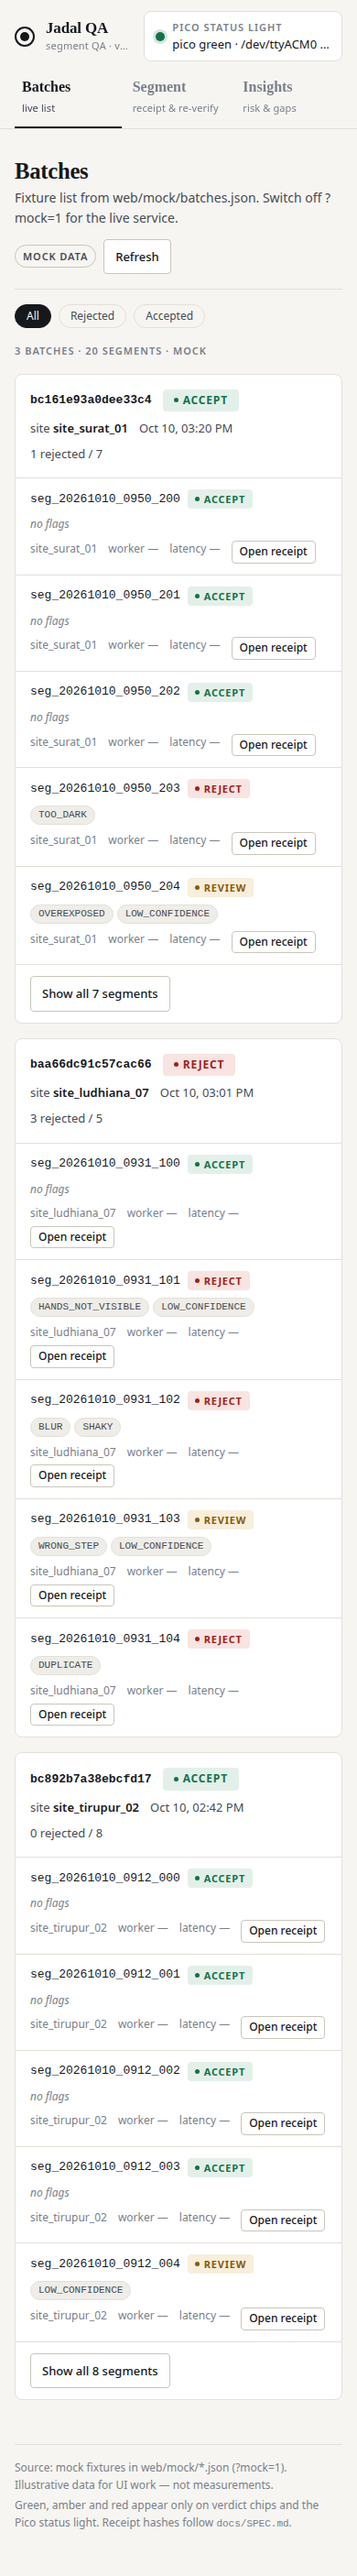
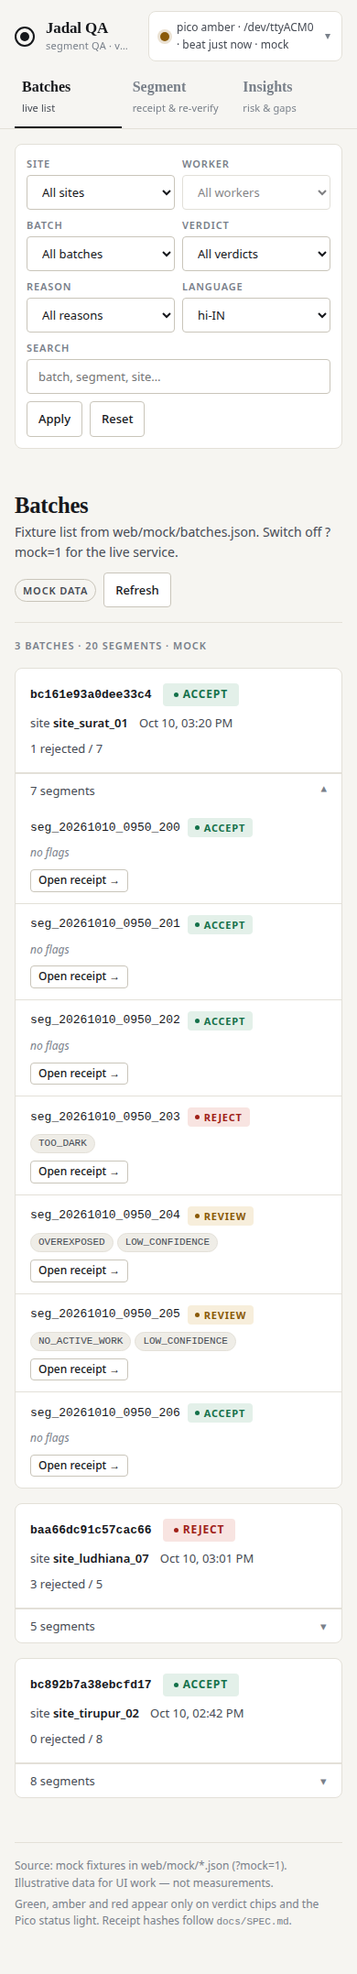
dashboard2: report, version_match line, timeline no-detection note, extra shots

Changed region(s): [[0.0308, 0.0, 0.9231, 0.9949], [0.7692, 0.1865, 0.8615, 0.2176], [0.8615, 0.0622, 0.9231, 0.0933]]

diff --git a/web/app.js b/web/app.js
@@ -724,6 +724,9 @@ function renderReverify(out) {
       (((res.diff || []).length)
         ? '<ul class="rv-diff">' + res.diff.map(function (d) { return '<li>' + esc(d) + '</li>'; }).join('') + '</ul>'
         : '<p class="rv-detail">no differing fields</p>') +
+      (res.version_match === undefined || res.version_match === null ? '' :
+        '<p class="rv-detail">code versions ' + (res.version_match ? 'match' :
+          'differ' + (((res.version_diff || []).length) ? ' (' + res.version_diff.map(esc).join(', ') + ')' : '')) + '</p>') +
     '</div>');
   out.appendChild(banner);
 }
@@ -737,6 +740,14 @@ function stepTimelineCard(r) {
   var conf = Number(r.step_conf);
   var thr = Number(r.threshold);
   var confTxt = isFinite(conf) ? conf.toFixed(2) : '—';
+
+  // top candidate (for the "no step detected" note when choice is null)
+  var topName = null, topP = -1;
+  names.forEach(function (name) {
+    var p = Number(probs[name]);
+    if (isFinite(p) && p > topP) { topP = p; topName = name; }
+  });
+  topP = topP >= 0 ? topP.toFixed(2) : '—';
 
   var track = el('<ol class="timeline" aria-label="SOP step timeline"></ol>');
   names.forEach(function (name) {
@@ -762,6 +773,11 @@ function stepTimelineCard(r) {
       '<div class="card-head"><h2 class="card-title">Step timeline</h2>' +
       '<span class="card-note">SOP steps · detected step marked, shaded by confidence</span></div>' +
       '<div class="card-body"><div class="tl-scroll"></div>' +
+      (choice
+        ? ''
+        : '<p class="state-note" style="margin-bottom:var(--s3);">No step detected — top candidate ' +
+          esc(topName) + ' (' + esc(topP) + '), confidence ' + esc(confTxt +
+          (isFinite(thr) ? ', threshold ' + thr : '')) + ').</p>') +
       '<p class="state-note">Hands p(yes) ' +
         esc(r.raw.decisions && r.raw.decisions.hands_ok && r.raw.decisions.hands_ok.p_yes !== undefined ? num(r.raw.decisions.hands_ok.p_yes) : '—') +
         ' · active-work p(yes) ' +

diff --git a/web/api.js b/web/api.js
@@ -184,6 +184,8 @@ function normReverify(raw) {
     expected: first(raw, ['expected']),
     actual: first(raw, ['actual']),
     diff: asArray(first(raw, ['diff', 'diffs', 'fields'])),
+    version_match: first(raw, ['version_match', 'versionMatch']),
+    version_diff: asArray(first(raw, ['version_diff', 'versionDiff'])),
   };
 }
 

diff --git a/docs/reports/dashboard2.md b/docs/reports/dashboard2.md
@@ -1,0 +1,130 @@
+# dashboard2 — module report (issue #18)
+
+Judge-facing UX rewrite on top of the merged dashboard (`web/` on
+`feat/dashboard2`, merged with `origin/main`). Vanilla JS, no build step,
+no CDN, no remote assets. Light/dark via `prefers-color-scheme`. Live
+against the service, or `?mock=1` against `web/mock/*.json`.
+
+## What exists
+
+- **`web/api.js` (new) — the single adapter.** ALL transport and ALL field
+  access live here: `createClient` (`batches`, `batchDetail`, `receipt`,
+  `reverify`, `risk`, `gaps`, `pico`, `voiceUrl`, `wsUrl`), normalizers
+  (`normBatchList`, `normReceipt`, `normRisk`, `normGaps`, `normPico`,
+  `normReverify` incl. `version_match`/`version_diff`), pure filter logic
+  (`filterOptions`, `applyFilters`, `matchQuery`), hash router
+  (`parseHash`/`buildHash`), `findReceiptForSegment`, `shortHash`.
+  `app.js` reaches every operation through `client.*` / `A.*` (asserted by
+  tests). Switching to real shapes = one-file change. Also loads under
+  node so tests exercise it directly.
+- **Global filter bar** — real `<select>`s (site, worker, batch, verdict,
+  reason, language) + search box. State lives in the URL hash
+  (`#/batches?site=…&verdict=reject&q=…`); bogus values are dropped by the
+  parser. Search is debounced; selects apply instantly; Reset clears.
+  Worker select is disabled with a tooltip until the API exposes workers.
+- **Batches view** — compact cards with native `<details>` expandable rows
+  (newest auto-expanded; all expand when filters are on) showing
+  per-segment verdict + reason chips and an "Open receipt →" button.
+  Meta line counts batches/segments/active filters.
+- **Segment view** — verdict + reason chips; Segment/Re-verify grid;
+  **collapsible receipt tree** (`<details>` per object, truncated hashes
+  with full value on hover, per-hash copy buttons) instead of a JSON dump;
+  **Re-verify** with unmistakable ✓ MATCH / ✕ MISMATCH banner (expected /
+  actual + diff paths + code-version line when the payload carries it);
+  **step timeline** (SOP steps left→right, detected step marked and tinted
+  by segment verdict, dot filled when conf ≥ threshold; explicit "No step
+  detected — top candidate …" note when `choice` is null); voice card with
+  **language `<select>`** + ▶ Play message; Hashes card; compact signals
+  grid; open-by-receipt-id box.
+- **Insights** — risk/coverage SVG (bound/target lines + operating point
+  when the payload carries them, honest "not certified" otherwise),
+  **head/model `<select>`** (populates from opened receipts; selects an
+  aggregate curve with a labelled note until per-head curves exist),
+  SOP-gap bars.
+- **System drawer** — `<details>` in the header, collapsed by default:
+  Pico LED + heartbeat age + port + ticks, then model versions + pipeline
+  version + python/torch/opencv once a segment is open.
+- **Polish** — no walls of text anywhere; verdict green/amber/red only on
+  verdict chips, the detected timeline step tint, and the Pico LED
+  (timeline dots stay neutral ink); `:focus-visible` states; native
+  keyboard-accessible `<details>`/`<select>`/tabs with arrow-key tab
+  navigation; loading skeletons + empty + error-with-retry states;
+  CSS-only transitions; 390 px clean (filter bar wraps 2-up).
+
+## Built against
+
+`docs/API.md` from `origin/feat/integration` (read in full, 204 lines —
+it appeared mid-task; checked twice before that: no API doc, built
+against `web/mock/*.json` + SPEC). The adapter already matches it:
+`{batches: BatchSummary[]}` nine keys, detail `receipt_ids` ordered by
+receipt_id (resolve via `verdict.segment_id`), receipt shape, reverify
+`{match, expected, actual, diff}` + `version_match`/`version_diff`
+(surfaced, added after reading the doc), bare risk/gap lists, pico
+offline `{connected:false, reason}`, WS `hello`/`pong`/`batch`.
+Its "Missing" §1–4 (per-verdict enrichment, risk metadata,
+`blurred_sha256`) is exactly what the UI renders "—" for.
+
+## How to run
+
+```sh
+cd web && python3 -m http.server 8123
+# mock: http://127.0.0.1:8123/?mock=1
+# live:  http://127.0.0.1:8123/   (expects jadal/service.py)
+```
+
+## Tests — actually run
+
+```sh
+PYTHONNOUSERSITE=1 /home/parshu/envs/jadal/bin/python web/test_dashboard.py
+# Ran 14 tests in 0.078s — OK
+node --check web/api.js && node --check web/app.js   # pass
+node docs/screens/take_shots.cjs
+```
+
+Real output tail:
+
+```
+batches-1280.png:   1280x900        overflow=0px consoleErrors=0 failedReqs=0
+segment-1280.png:   1280x900        overflow=0px consoleErrors=0 failedReqs=0
+reverify-1280.png:  ✓ MATCH — receipt reproduces (expected == actual)
+reverify-mismatch-1280.png: ✕ MISMATCH + diff paths (decisions.step.answer_conf, _mock.forced_mismatch)
+insights-1280.png:  1280x900        overflow=0px consoleErrors=0 failedReqs=0
+batches-390.png:    390x844         overflow=0px consoleErrors=0 failedReqs=0
+segment-390.png:    390x844         overflow=0px consoleErrors=0 failedReqs=0
+insights-390.png:   390x844         overflow=0px consoleErrors=0 failedReqs=0
+batches-dark-1280.png, segment-dark-1280.png: dark mode, 0 errors
+ALL SHOTS OK
+```
+
+Plus two extra Playwright probes (not in the runner): accept receipt
+`827335a0e262bed8` shows `tl-step is-detected verdict-accept` with flag
+"detected · conf 0.91"; `#/batches?verdict=reject` renders from the hash
+as "2 batches · 4 segments · 1 filter on" with only reject rows, 0
+page errors. Screenshots in `docs/screens/` (11 PNGs + runner):
+batches/timeline/filtered extras included.
+
+Covers: files exist (incl. `api.js`); no remote assets across
+HTML/CSS/both JS; HTML wiring (views, drawer, filterbar selects,
+`<select>`/`<details>` present); dark-mode + no fixed min-width;
+colour rule (verdict vars only on verdict/timeline/LED selectors);
+endpoints + adapter helpers in `api.js`; `app.js` uses only
+`client.*`/`A.*` (no own `fetch(API`/`fetch('mock`); v2 components
+present; 5 languages; batch shapes + rule; receipt hashes recomputed
+per SPEC; 4 dp floats; risk/gaps/pico shapes; **adapter node cases**
+(normalizers, filterOptions, verdict/site/reason/search composition,
+hash round-trip + bogus rejection, shortHash, pure receipt resolution).
+
+## Known gaps / NOT DONE
+
+- Never exercised against a RUNNING service — shapes follow the real
+  `docs/API.md` but no live HTTP call has been made from this worktree.
+- No `GET /voice/...` audio heard end-to-end (mock plays a labelled tone).
+- Per-head risk curves need a service change (dropdown is label-only).
+- Per-segment worker/clip/latency need `GET /segments/{id}` (renders "—").
+- `?api=` cross-origin override untested; WS push against live untested.
+- Proposals for other modules: none — no SPEC/config changes needed.
+
+## Files touched (all owned)
+
+`web/api.js` (new), `web/app.js`, `web/index.html`, `web/style.css`,
+`web/test_dashboard.py`, `docs/screens/*.png`, `docs/reports/dashboard2.md`.
